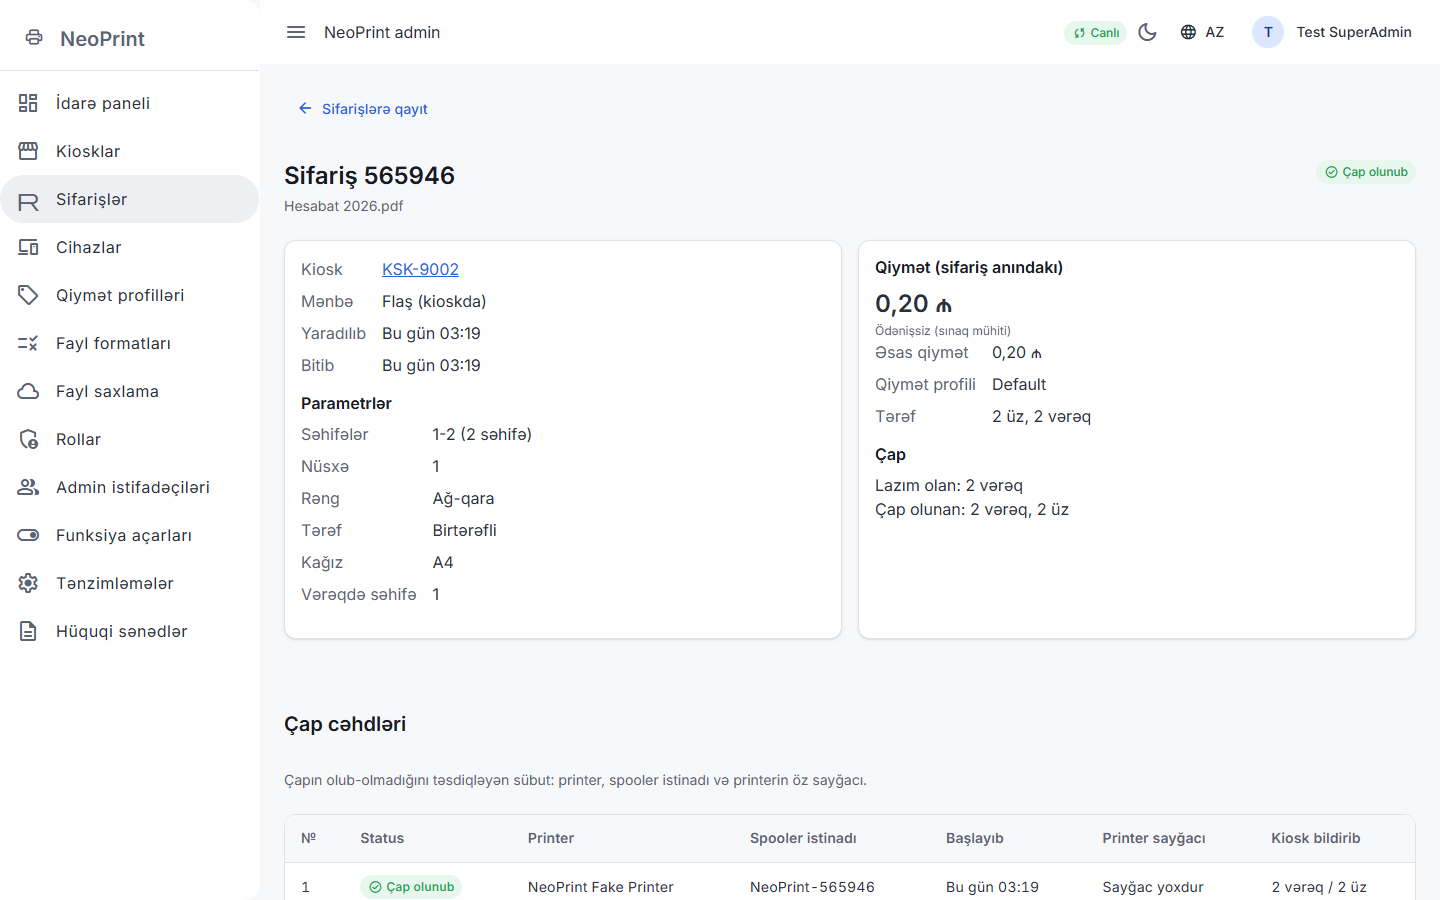
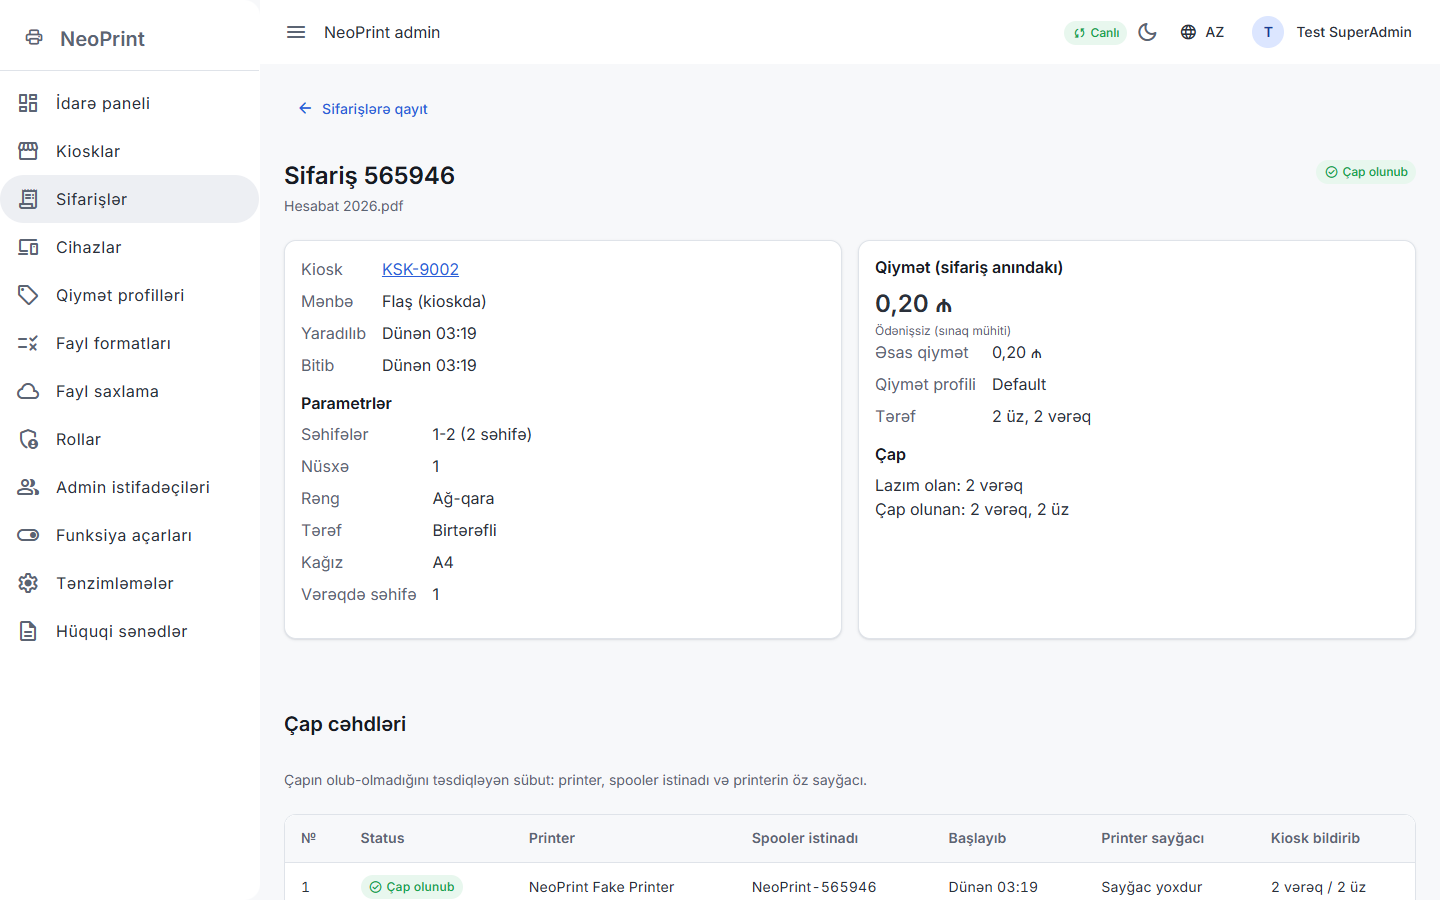
docs: step 3 manual power loss test, local check guide, re-shot admin screens

diff --git a/docs/MANUAL_TESTS.md b/docs/MANUAL_TESTS.md
@@ -1,0 +1,120 @@
+# Əl ilə yoxlamalar
+
+Avtomatik testlə və ya lokal stack-də təkrarlana bilməyən yoxlamalar: real
+printer, real elektrik kəsilməsi, real cihaz. Hər yoxlamanın `TASKS.md`-də
+tapşırığı var; nəticə həmin tapşırığın "Sübut" sütununa yazılır.
+
+## MT-01. Çapın ortasında elektrik kəsilməsi (T-089)
+
+**Nə vaxt:** Addım 7, pilotdan əvvəl. Ödəniş (Addım 4) və
+`KioskHeartbeatMonitor` / `Suspected` (Addım 7) hazır olandan sonra.
+
+**Niyə əl ilə:** fake printer işi dərhal "çap edir", ona görə kəsiləcək an yoxdur.
+Kioskun bərpa məntiqi avtomatik testlərlə yoxlanılıb
+(`PrintQueueWorkerTests`: jurnal, spooler, sayğac), amma real printerin,
+real spooler-in və real elektrik kəsilməsinin birlikdə necə davrandığını
+yalnız cihazda görmək olar.
+
+**Gözlənilən qayda** (`FAILURE_RECOVERY.md`, plan Bölmə 2.5 və 7.12):
+
+- iş **heç vaxt ikinci dəfə çapa göndərilmir**;
+- işin bütün vərəqləri çıxıbsa → `Completed`, əks halda → `Interrupted`
+  (səbəb `printer.restarted`, çıxan vərəq sayı ilə);
+- hər cəhd `print_attempts`-də bir sətirdir, bərpadan sonra müəyyən edilən
+  cəhddə `Recovered = true` olur;
+- refund yalnız plan Bölmə 2.5-in qaydası ilə edilir, ikiqat refund olmur.
+
+### Hazırlıq
+
+1. Kiosk `KIOSK_SETUP.md` ilə quraşdırılıb, aktivdir, admin paneldə `Online`-dır.
+2. BIOS-da "elektrik gələndə avtomatik açıl" (AC power recovery → On) aktivdir.
+3. Real printer qoşulub və kiosk üçün seçilib (admin → Kiosklar → kiosk →
+   Printerlər). Test səhifəsi çıxır.
+4. Mümkünsə printerin SNMP səhifə sayğacı var. Admin → Printerlər cədvəlində
+   sayğac görünür. Sayğacı olmayan printerlə yoxlamanı ayrıca bir dəfə də
+   təkrarlayın.
+5. Uzun çap işi hazırlayın: **30–50 səhifəlik PDF** flaşda. Çap bir neçə
+   dəqiqə çəkməlidir ki, ortasında kəsmək mümkün olsun.
+6. Kağız sayğacını qeyd edin: admin → kiosk → Sərf → A4 qalığı.
+7. İki sifariş növü hazırlayın:
+   - **anonim, kioskda bank kartı / QR ilə ödənilmiş** sifariş;
+   - **qeydiyyatlı istifadəçinin** sifarişi (mobil tətbiqdən).
+8. Kəsilən işin arxasında növbədə **ikinci iş** olsun (məsələn, 2 səhifəlik
+   sifariş). Bərpadan sonra onun davam etdiyi yoxlanılır.
+9. Admin panelini başqa kompüterdə açın: Dashboard və Sifarişlər səhifəsi.
+
+### Nəyi kəsmək
+
+Hər variant ayrıca sınaqdır. Hər dəfə yeni sifariş verin.
+
+| Variant | Nə kəsilir | Nəyi yoxlayır |
+|---|---|---|
+| A | Yalnız **kiosk kompüterinin** elektriki (kabeli çıxarın, "Shut down" etməyin) | Printer işi çap etməyə davam edə bilər. Kiosk qalxanda spooler / sayğac işin sonunu görməlidir |
+| B | Yalnız **printerin** elektriki | Kiosk işləyir. Spooler işi "uğursuz" deyir, sayğac qərar verir |
+| C | **Hər ikisi** eyni anda (binada elektrik kəsilməsi) | Ən pis hal: nə spooler, nə yaddaş kömək edir, yalnız jurnal və sayğac qalır |
+| D | Variant C, amma elektriki **20 dəqiqədən sonra** qaytarın | Server bu müddətdə kioskdan xəbər almır → job `Suspected` olur, sonra kiosk qayıdanda avtomatik həll olunur |
+
+Kəsmə anı: printerdən **3–5 vərəq çıxandan sonra**, iş hələ davam edərkən.
+
+### Addımlar
+
+1. Uzun işi kioskda sifariş edin (ödəniş növü — yuxarıdakı iki növdən biri).
+2. Admin paneldə sifarişin `Printing` olduğunu görün, kodunu yazın.
+3. 3–5 vərəq çıxanda seçdiyiniz variant üzrə elektriki kəsin. Vaxtı yazın.
+4. **Printerdən çıxan vərəqləri sayın** və yazın.
+5. 1 dəqiqə gözləyin (variant D-də 20 dəqiqə), elektriki qaytarın.
+6. Kiosk özü qalxana qədər toxunmayın. 5 dəqiqə ərzində kiosk ekranı ana
+   ekrana qayıtmalıdır.
+7. Printeri 5 dəqiqə müşahidə edin: **heç bir əlavə vərəq çıxmamalıdır**
+   (növbədəki ikinci işin vərəqlərindən başqa).
+
+### Nəyi yoxlamaq
+
+| # | Yoxlama | Harada | Gözlənilən |
+|---|---|---|---|
+| 1 | Kiosk özü qalxdı | kiosk ekranı, admin → Kiosklar | Aktivləşdirmə kodu soruşulmur; status `Online` (təhlükəsiz rejim deyil — elektrik kəsilməsi çöküş sayılmır) |
+| 2 | **İkiqat çap yoxdur** | printer, spooler | Kəsilən işdən əlavə vərəq çıxmayıb. Spooler növbəsi boşdur: Windows — `Get-PrintJob -PrinterName "<ad>"`, Linux — `lpstat -o` |
+| 3 | Job statusu | admin → Sifarişlər → sifariş | Bütün vərəqlər çıxıbsa `Completed`. Əks halda `Interrupted`, səbəb "printer yenidən başladı" (`printer.restarted`), "Çap olunan vərəq" 4-cü addımdakı sayla eynidir (sayğac yoxdursa 0). Variant D-də əvvəl `Suspected`, kiosk qayıdandan sonra `Completed` / `Interrupted` |
+| 4 | Status tarixçəsi | sifariş detalı → Tarixçə | `Queued → Printing → Completed` və ya `… → Printing → Interrupted`. İkinci `Printing` keçidi **yoxdur** |
+| 5 | `print_attempts` | sifariş detalı → Çap cəhdləri | **Bir** sətir. "Restart-dan sonra müəyyən edilib" yazılıb. Printer adı, spooler istinadı, sayğac əvvəl → sonra (sayğac varsa fərq çıxan vərəqlərə uyğundur) |
+| 6 | Növbədəki ikinci iş | admin → kiosk → Növbə, printer | Kəsilən iş həll olunandan sonra çap olunur, `Completed` |
+| 7 | Kağız sayğacı | admin → kiosk → Sərf | Yalnız həqiqətən çıxan vərəqlər qədər azalıb, bir dəfə (hərəkətlər cədvəlində iş üçün bir sətir) |
+| 8 | **Refund qərarı** | sifariş detalı, ödəniş / refund səhifəsi, kiosk ekranı | Aşağıdakı cədvələ bax |
+| 9 | Kiosk jurnalı | Windows `C:\ProgramData\NeoPrint\logs`, Linux `/var/log/neoprint` | "was at the printer when the kiosk stopped … It is not printed again" sətri. Log-da fayl məzmunu, token, açar **yoxdur** |
+
+**Refund qərarı** (plan Bölmə 2.5):
+
+| Nəticə | Anonim, kioskda bankla ödənilib | Qeydiyyatlı istifadəçi |
+|---|---|---|
+| `Completed` | Refund yoxdur | Refund yoxdur |
+| `Interrupted` | Avtomatik ləğv + karta refund; kiosk ekranında refund məlumatı | Avtomatik refund yoxdur; istifadəçiyə refund təklifi (bildiriş) |
+| `Suspected` (variant D, kiosk hələ qayıtmayıb) | Avtomatik refund **yoxdur**; incident + admin → "Baxış gözləyən job-lar" | Eyni |
+| `Suspected` → kiosk qayıtdı | Yuxarıdakı `Completed` / `Interrupted` sətri | Eyni |
+
+Hər halda bir sifariş üçün **ən çox bir refund** olmalıdır: ödəniş səhifəsində
+bir refund sətri, provayderdə bir qaytarma.
+
+### Lokal stack-də yoxlamaq üçün sorğular (istəyə görə)
+
+Pilot mühitində eyni sorğular pilot Mongo-suna qarşı işlədilir.
+
+```js
+// docker exec -it neoprint-mongo mongosh -u neoprint -p devMongoPassword --authenticationDatabase admin neoprint
+const job = db.print_jobs.findOne({ JobCode: "<kod>" });
+job.Status; job.PrintedSheets;
+db.print_attempts.find({ JobId: job._id }).toArray();          // bir sətir, Recovered: true
+db.state_transitions.find({ EntityId: job._id }).sort({ CreatedAt: 1 }).toArray();
+db.supply_events.find({ KioskId: job.KioskId }).sort({ _id: -1 }).limit(3).toArray();
+```
+
+### Nəticəni yazmaq
+
+Hər sınaq üçün bir sətir. Cədvəli T-089-un "Sübut" sütununa (və ya pilot
+hesabatına) əlavə edin.
+
+| Tarix | Kiosk | Printer (sayğac var/yox) | Variant | Ödəniş növü | Çıxan vərəq (sayılan) | Job statusu | `print_attempts` sətri | Əlavə vərəq çıxdı? | Refund | Nəticə |
+|---|---|---|---|---|---|---|---|---|---|---|
+|  |  |  |  |  |  |  |  |  |  |  |
+
+Hər hansı yoxlama gözləniləndən fərqlidirsə: sifariş kodunu, vaxtı və kiosk
+jurnalını saxlayın, `TASKS.md`-yə tapıntı kimi yazın.

diff --git a/docs/DEV_ENVIRONMENT.md b/docs/DEV_ENVIRONMENT.md
@@ -649,6 +649,45 @@ Emulyatora test faylı atmaq: faylı emulyator pəncərəsinə sürükləyin (Do
 
 ---
 
+## 7b. Addım 3 funksiyalarını yoxlamaq
+
+Yeni kod üçün: `docker compose up --remove-orphans -d --build api admin`, kiosk üçün bölmə 5.
+
+**Kiosku işə salıb xidmətə açmaq (bir dəfə):**
+
+1. Admin paneli → **Cihazlar → Token yarat** (kiosk seçin) və ya bölmə 5-dəki `docker logs` tokenini götürün.
+2. Kiosku `--enrollment-token <TOKEN>` ilə başladın — kod ekranı olmadan aktivləşir.
+3. **Kiosklar → kiosk → Printerlər** → printeri **Əsas et** → **Test çap**. Əmr "Uğurlu" olanda kiosk `Online` olur, ekranda "Xoş gəlmisiniz" görünür.
+4. **Sərf** tabında A4 lotokunu doldurun (tutumu **Kağız** tabında təyin olunur).
+
+**Kioskda:**
+
+| Nəyi | Necə |
+|---|---|
+| Flaşdan sifariş | Flaş taxın (və ya "Flash kartdan çap et") → fayl → **Davam et** → parametrlər → **Sifariş et**. Kod və növbədəki yer göstərilir |
+| Səhifə aralığı | Parametrlərdə **Aralıq** → ekran klaviaturası. Yarımçıq yazı ("1-") xəta deyil; səhv aralıq sahənin altında yazılır |
+| TXT redaktəsi | `.txt` → **Redaktə et** → ekran klaviaturası (az hərfləri) → **Yadda saxla** |
+| Kodla ləğv | Ana ekran → **Sifariş kodu ilə ləğv et** → 6 rəqəm → **Tap**. Növbədəki sifariş ləğv olunur, çap olunmuş yox |
+| Admin menyusu | Loqoya 3 san-də 5 toxunuş → PIN (test kiosklarında `135790`) |
+| Təhlükəsiz rejim | Bölmə 5, "Təhlükəsiz rejim" |
+
+**Admin panelində:**
+
+| Səhifə | Ünvan | Nəyi yoxlamaq |
+|---|---|---|
+| İdarə paneli | `/` | "Kioskların vəziyyəti": status sayları, "Diqqət tələb edir" (təhlükəsiz rejim, əlaqə yoxdur, printer seçilməyib, kağız qurtarıb/azdır) |
+| Sifarişlər | `/print-jobs` | Filtr: kod, status, kiosk, tarix aralığı (`gg.aa.iiii` yazın və ya təqvimdən seçin); sətrə klik → detal |
+| Sifariş detalı | `/print-jobs/:id` | Parametrlər, qiymət snapshot-u (profil dəyişəndə dəyişmir), çap cəhdləri, status tarixçəsi; növbədəki sifariş üçün **Sifarişi ləğv et** (səbəb məcburidir) |
+| Kiosk → Printerlər | `/kiosks/:id` | Printer seçimi, imkanları söndürmək, **Printerləri yenilə**, **Test çap** — nəticə canlı gəlir |
+| Kiosk → Növbə / Sifarişlər | `/kiosks/:id` | Kioskun canlı növbəsi və yalnız həmin kioskun sifarişləri |
+| Kiosk → Sərf | `/kiosks/:id` | Lotok səviyyəsi, doldurma (Əlavə et / Tam doldur / Dəqiq say), hərəkətlər |
+
+Operator hesabı (`dev-operator@neoprint.local`) printerləri, sifarişləri və sərfi görür, kağız doldura bilir.
+
+Real printer və ya real cihaz tələb edən yoxlamalar (məs. çapın ortasında elektrik kəsilməsi): `docs/MANUAL_TESTS.md`.
+
+---
+
 ## 8. Build, test, lint
 
 ```bash
